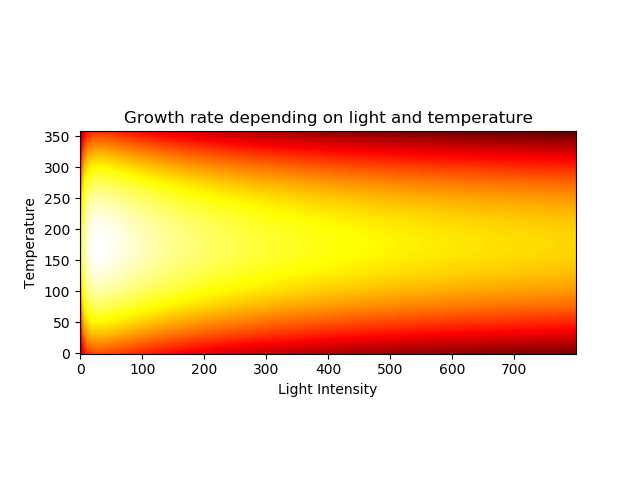
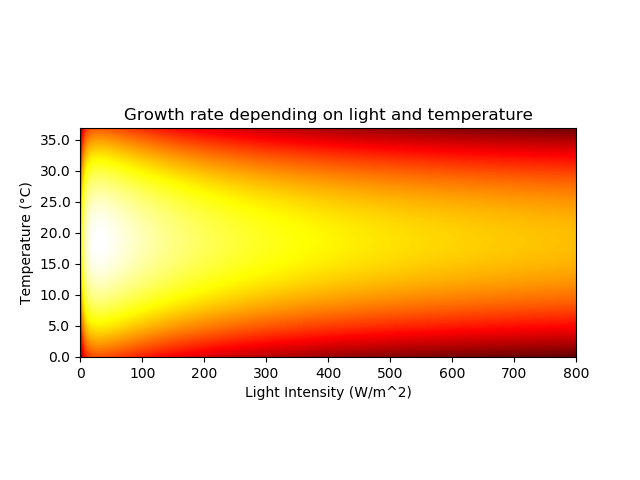
final state

diff --git a/Simulation_heat_map.py b/Simulation_heat_map.py
@@ -1,6 +1,6 @@
 
 import matplotlib.pyplot as plt
-
+import numpy as np
 
 class Environment():
 
@@ -27,10 +27,10 @@ class Plant():
 
     # set up constants for temperature based activity
 
-    TEMP_MAX = 37.1  #max temp for best growth
-    TEMP_OPT = 24.6
+    TEMP_MAX = 37.1  #max temp 
+    TEMP_OPT = 24.6  #optimum temp
 
-    RATE_MAX = 0.19
+    RATE_MAX = 0.19  #greatest rate
     
 
     Instances = []
@@ -61,7 +61,7 @@ class Plant():
         light = self.light
         growth = light / ((Plant.A * (light ** 2)) + (Plant.B * light) + Plant.C)
 
-        return growth
+        return growth 
 
 
     # returns energy gained via temperature
@@ -69,7 +69,8 @@ class Plant():
     def calculate_temp(self):
 
         temp = self.temp
-        growth = (Plant.RATE_MAX * ((Plant.TEMP_MAX - temp)/(Plant.TEMP_MAX - Plant.TEMP_OPT)) * (temp / Plant.TEMP_OPT)) * 5
+        #multiplied by 4 to ensure that light and heat had equal importance
+        growth = (Plant.RATE_MAX * ((Plant.TEMP_MAX - temp)/(Plant.TEMP_MAX - Plant.TEMP_OPT)) * (temp / Plant.TEMP_OPT)) * 4
 
         return growth
 
@@ -102,96 +103,66 @@ class Plant():
 
 Garden = Environment(30, 29.5)
 
-##'''
-##myPlant = Plant(35, 35, 0.05, Garden)
-##myPlant.debug_calculation()
-##
-##
-##
-##
-##def remove_float(list_):
-##    newlist_= []
-##
-##    multiplier = 1/list_[2]
-##    print(multiplier)
-##    for thing in list_:
-##        print(thing)
-##        thing = thing * multiplier
-##        newlist_.append(int(thing))
-##    print(newlist_)
-##    return newlist_, int(multiplier)
-##
-##
-##    
-##
-##
-##def array_(temp, light): 
-##    for temperature in range(temp[0][0], temp[0][1]):
-##        temperature = temperature / temp[1]
-##        for level in range(light[0][0], light[0][1]):
-##            level = level/ light[1]
-##            print(temperature,level)
-##
-##temp = [20,30,0.5]
-##light = [50,70,1]
-##
-##
-##temp = remove_float(temp)
-##light = remove_float(light)
-##
-##array_(temp, light)
-##
-##
-##'''
-
-
-
-temps = [1, 37,0.1]
-lights = [0,800,1]
+#range of surrounding stimuli
+temps = [0, 37.1 ,0.1]
+lights = [0,801,1]
 
 surface_area = 0.5
 
-
+#list for heat map
 Energy_Levels = []
 
 
+#this loop creates the rows of the heat map
 
-
-
+#runs throught each possible temperature
+#changes the floats into integers
 for temp in range(int((temps[1]-temps[0])//temps[2])):
 
+    #each temperature has its own row
     row = []  
 
-    
+    #changes the floats into integers
     for light in range(int((lights[1]-lights[0])//lights[2])):
-
+        
+        #returns original value 
         plant_temp = temp * temps[2] + temps[0]
         plant_light = light * lights[2] + lights[0]
+        
+        #enters detail into classes to create an object
         a = Plant(plant_light, plant_temp, surface_area, Garden)
         
+        #calculates total growth from light and temperature function
+        row.append(a.growth_light + a.growth_temp)
 
-        row.append(a.growth_light + a.growth_temp) #a.loss_rate)
-
+    
     Energy_Levels.append(row)
 
+#this was to make the graph neater
+fig, ax = plt.subplots()
 
-
-'''
-
-for plant in Plant.Instances:
-    Energ_Levels.append(plant.growth_temp + plant.growth_light)
-    print('Temp: ', plant.temp,' Light: ', plant.light, ' Growth: ', plant.growth_light+plant.growth_temp)
-
-
-a = [[12,3,12],[1,34,34],[34,12,3]]
-
-'''
-
+#this created a heat map
 plt.imshow(Energy_Levels, cmap='hot', interpolation='nearest')
+#this flipped the y axis
 plt.gca().invert_yaxis()
-plt.xlabel('Light Intensity')
-plt.ylabel('Temperature')
+#labels
+plt.xlabel('Light Intensity (W/m^2)')
+plt.ylabel('Temperature (°C)')
 plt.title('Growth rate depending on light and temperature')
+
+#this was to make sure that temperature was between 0 and 37 rather than measuring the instances
+fig.canvas.draw()
+labels = [item.get_text() for item in ax.get_yticklabels()]
+labels = list(map(int, labels[1:]))
+print(labels)
+
+newlabels = [0]
+for i in labels:
+    i = i/10
+    newlabels.append(i)
+
+#replaces the tick labels
+ax.set_yticklabels(newlabels)
 plt.show()
 
 

diff --git a/Simulation_temp graph.py b/Simulation_temp graph.py
@@ -109,16 +109,13 @@ lights = [0,800,1]
 
 surface_area = 0.5
 
-
-Energy_Levels = []
-Temperature_levels = []
+#lists for axis
 
 x = []  
 y = []
 
 for temp in range(int((temps[1]-temps[0])//temps[2])):
-
-    row = []  
+  
     plant_light = 0
     plant_temp = temp * temps[2] + temps[0]
     a = Plant(plant_light, plant_temp, surface_area, Garden)
@@ -126,9 +123,10 @@ for temp in range(int((temps[1]-temps[0])//temps[2])):
     x.append(plant_temp)
     y.append(a.growth_temp)
     
+#create a graph for only light intensity
 
 plt.plot(x,y)
-plt.xlabel('Temperature')
+plt.xlabel('Temperature (°C)')
 plt.ylabel('Rate of growth')
 plt.title('Effect of temperature on rate of growth')
 plt.show()

diff --git a/Simulation_light graph.py b/Simulation_light graph.py
@@ -117,6 +117,7 @@ Temperature_levels = []
 
 for temp in range(int((temps[1]-temps[0])//temps[2])):
 
+    #lsit for axis
     x = []  
     y = []
     
@@ -130,10 +131,10 @@ for temp in range(int((temps[1]-temps[0])//temps[2])):
         y.append(a.growth_light) 
         
 
-
+#create a graph for only light intensity
 
 plt.plot(x,y)
-plt.xlabel('Light Level')
+plt.xlabel('Light Intensity (W/m^2)')
 plt.ylabel('Rate of growth')
 plt.title('Effect of light on rate of growth')
 
